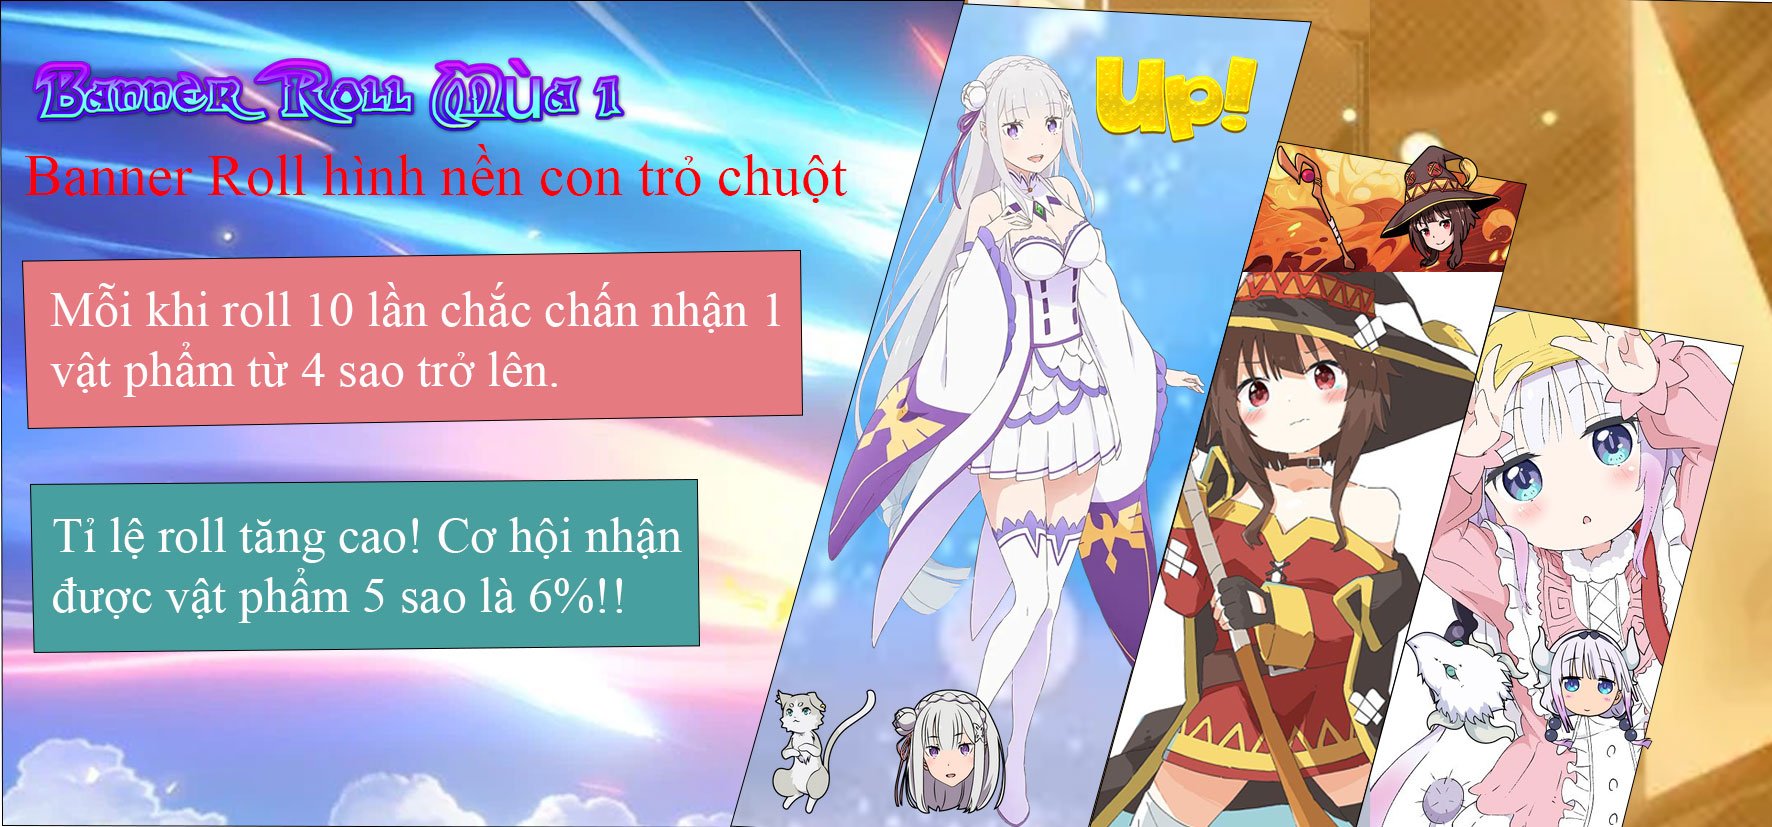
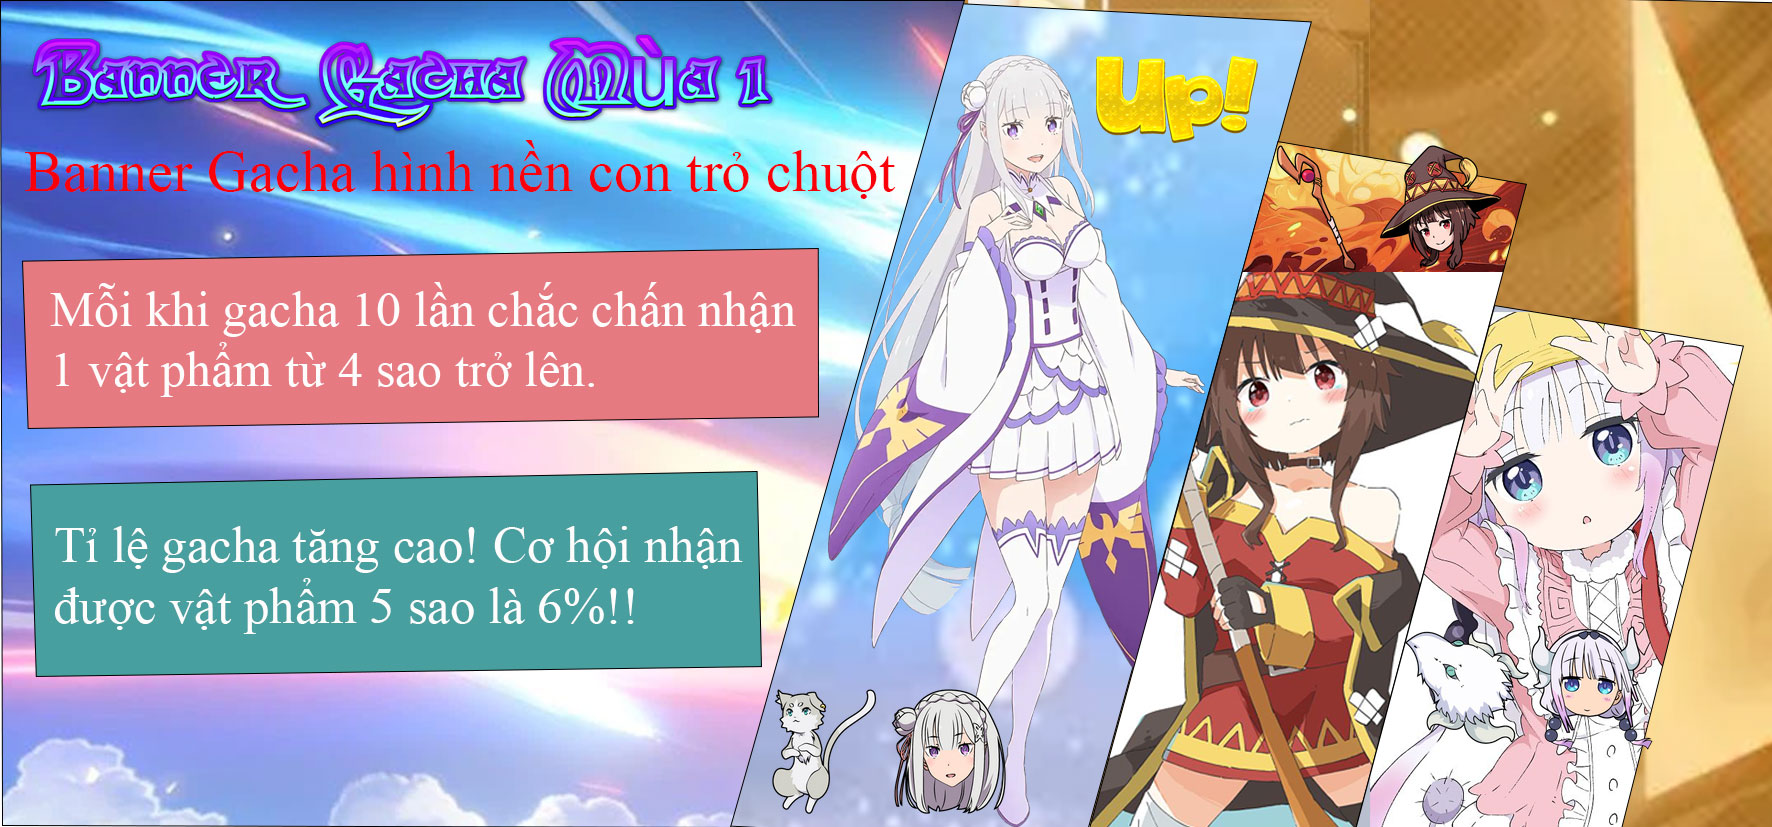
thêm màu

Changed region(s): [[0.0, 0.5441, 0.4345, 0.8162], [0.0, 0.0302, 0.4966, 0.2418], [0.031, 0.3023, 0.4656, 0.5139]]

diff --git a/js/gacha.js b/js/gacha.js
@@ -48,6 +48,7 @@ function KTGacha(so_lan) {
         let randomInteger;
         let url_anh;
         let ten_sp;
+        let khung_gacha;
         for (let i = 0; i < so_lan; i++) {
             randomInteger = Math.floor(Math.random() * (max - min + 1)) + min;
             lan_gacha++;
@@ -58,15 +59,17 @@ function KTGacha(so_lan) {
             localStorage.setItem("lan_gacha", lan_gacha);
             if (randomInteger <= 6) {
                 url_anh = "assets/anime-rezero-puck-and-emilia-pack.png";
-                ten_sp = "Ảnh nền chuột Emilia x1";
+                ten_sp = "Ảnh nền chuột: Emilia x1";
+                khung_gacha = "khung-gacha-5";
             } else if (randomInteger <= 30 && randomInteger > 6) {
                 if (randomInteger <= 18 && randomInteger > 6) {
                     url_anh = "assets/konosuba-megumin-and-staff-pack.png";
-                    ten_sp = "Ảnh nền chuột Megumin x1";
+                    ten_sp = "Ảnh nền chuột: Megumin x1";
                 } else if (randomInteger > 18 && randomInteger <= 30) {
                     url_anh = "assets/miss-kobayashi-s-dragon-maid-kanna-and-dragon-form-pack.png";
-                    ten_sp = "Ảnh nền chuột Kanna x1";
+                    ten_sp = "Ảnh nền chuột: Kanna x1";
                 }
+                khung_gacha = "khung-gacha-4";
             } else if (randomInteger > 30) {
                 if (randomInteger > 30 && randomInteger <= 50) {
                     url_anh = "assets/gold_key.png";
@@ -75,11 +78,12 @@ function KTGacha(so_lan) {
                     url_anh = "assets/sliver_key.png";
                     ten_sp = "Chìa khóa bạc x1";
                 }
+                khung_gacha = "";
             }
 
             document.getElementById("noi_gacha").innerHTML += `
             <div class="d-flex align-items-center">
-                <div class="khung-gacha py-1 px-1">
+                <div class="khung-gacha py-1 px-1 `+ khung_gacha + `">
                     <img src="`+ url_anh + `" class="w-100 h-auto">
                 </div>
                 <p class="mt-3 mx-4">`+ ten_sp + `</p>

diff --git a/index.html b/index.html
@@ -93,14 +93,14 @@
                 </div>
                 <div class="col-lg-4">
                     <div class="card mb-4 animate__animated animate__lightSpeedInRight">
-                        <div class="card-header">Danh sách vật phẩm roll</div>
+                        <div class="card-header">Danh sách vật phẩm Gacha:</div>
                         <div class="card-body thong-tin-roll">
                             <h6>Vật phẩm 5 sao: 6%</h6>
-                            <p>Ảnh nền chuột Emilia x1: 6%</p>
+                            <p>Ảnh nền chuột: Emilia x1: 6%</p>
                             <hr>
                             <h6>Vật phẩm 4 sao: 24%</h6>
-                            <p>Ảnh nền chuột Megumin x1: 12%</p>
-                            <p>Ảnh nền chuột Kanna x1: 12%</p>
+                            <p>Ảnh nền chuột: Megumin x1: 12%</p>
+                            <p>Ảnh nền chuột: Kanna x1: 12%</p>
                             <hr>
                             <h6>Vật phẩm 3 sao: 70%</h6>
                             <p>Chìa khóa vàng x1: 20%</p>

diff --git a/css/customstyle.css b/css/customstyle.css
@@ -17,6 +17,15 @@
     border-radius: 5px;
 }
 
+.khung-gacha-4 {
+    border-color: orangered;
+}
+
+.khung-gacha-5 {
+    border-image: linear-gradient(to right, darkblue, darkorchid) 1;
+    border-width: 2px;
+}
+
 .thong-tin-roll {
     max-height: 300px;
     overflow: auto;
